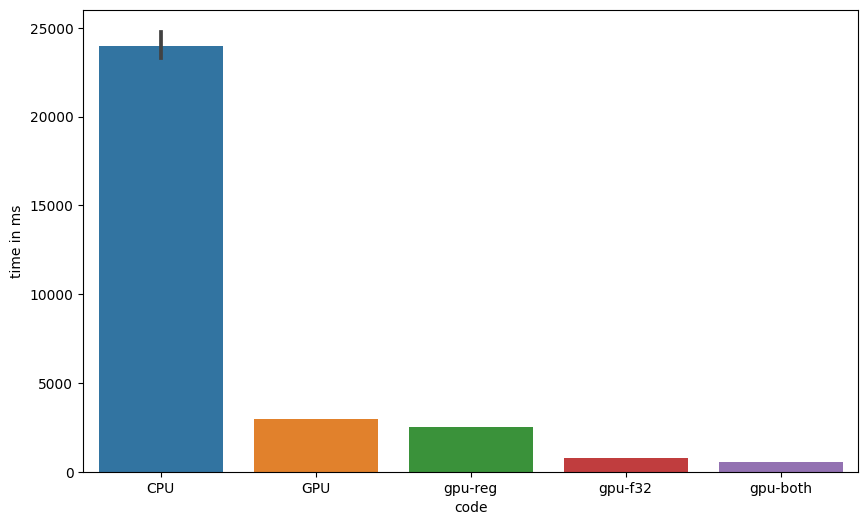
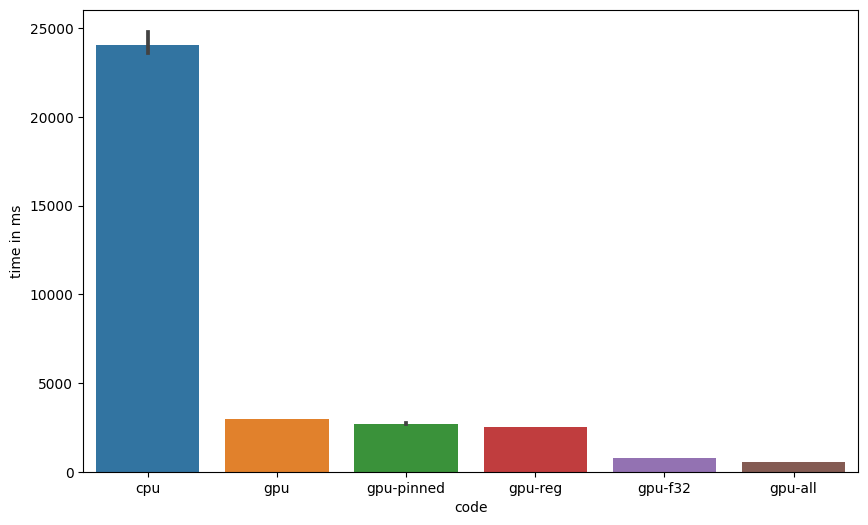
gpu vs cpu

diff --git a/Project/cpu_vs_gpu_plot.py b/Project/cpu_vs_gpu_plot.py
@@ -4,36 +4,53 @@ import seaborn as sb
 import numpy as np
 import pandas as pd
 
+
 def get_gpu_time(output):
     return int(output[0].split()[1]) + int(output[1].split()[1])
+
 
 def get_cpu_time(output):
     return int(output[0].split()[1])
 
-cpu, ori, register, precision, all = [], [], [], [], []
+
+cpu, ori, pinned, register, precision, all = [], [], [], [], [], []
 for _ in np.arange(3):
 
-    ori.append(get_gpu_time(subprocess.check_output(
-        f"./cuda_mandel 0", shell=True).decode().splitlines()))
+    ori.append(
+        get_gpu_time(
+            subprocess.check_output(f"./cuda_mandel 0",
+                                    shell=True).decode().splitlines()))
 
-    precision.append(get_gpu_time(subprocess.check_output(f"./cuda_mandel_floats 0",
-                                            shell=True).decode().splitlines()))
-                                            
-    register.append(get_gpu_time(subprocess.check_output(f"./cuda_mandel_minimize_op 0",
-                                             shell=True).decode().splitlines()))
-    all.append(get_gpu_time(subprocess.check_output(
-        f"./cuda_mandel_all_optimization 0", shell=True).decode().splitlines()))
+    pinned.append(
+        get_gpu_time(
+            subprocess.check_output(f"./cuda_mandel_pinned 0",
+                                    shell=True).decode().splitlines()))
 
-    cpu.append(get_cpu_time(subprocess.check_output(
-        f"./normal_mandel 0", shell=True).decode().splitlines()))
+    precision.append(
+        get_gpu_time(
+            subprocess.check_output(f"./cuda_mandel_floats 0",
+                                    shell=True).decode().splitlines()))
 
+    register.append(
+        get_gpu_time(
+            subprocess.check_output(f"./cuda_mandel_minimize_op 0",
+                                    shell=True).decode().splitlines()))
+    all.append(
+        get_gpu_time(
+            subprocess.check_output(f"./cuda_mandel_all_optimization 0",
+                                    shell=True).decode().splitlines()))
 
+    cpu.append(
+        get_cpu_time(
+            subprocess.check_output(f"./normal_mandel 0",
+                                    shell=True).decode().splitlines()))
 
 data = pd.DataFrame({
-    "code": ["CPU"] * len(cpu) + ["GPU"] * len(ori) + ["gpu-reg"] * len(register) + ["gpu-f32"] * len(precision) +
-     ["gpu-both"] * len(all),
+    "code":
+    ["cpu"] * len(cpu) + ["gpu"] * len(ori) + ["gpu-pinned"] * len(pinned) + ["gpu-reg"] * len(register) +
+    ["gpu-f32"] * len(precision) + ["gpu-all"] * len(all),
     "time in ms":
-    cpu + ori + register + precision + all
+    cpu + ori + pinned + register + precision + all
 })
 
 plt.figure(figsize=(10, 6))
